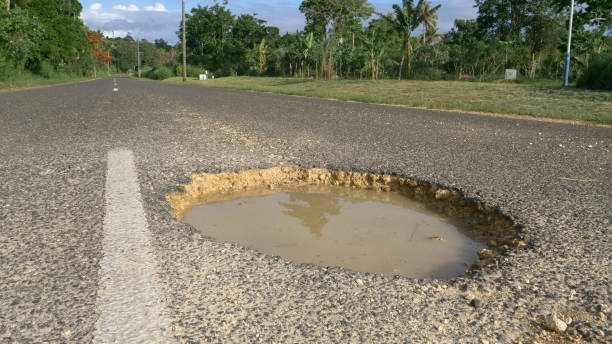
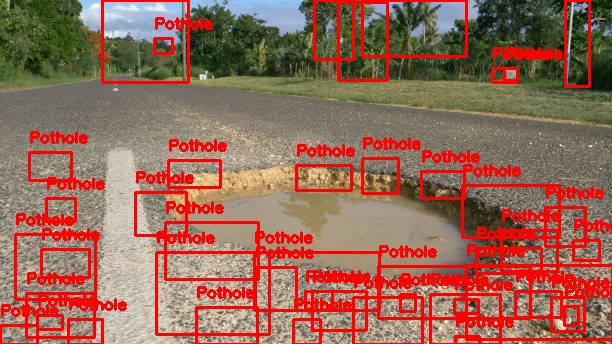
working model

diff --git a/app/flask_app.py b/app/flask_app.py
@@ -2,8 +2,7 @@
 from werkzeug.utils import secure_filename
 import os
 import cv2
-import torch
-from ultralytics import YOLO
+import numpy as np
 from pathlib import Path
 
 app = Flask(__name__)
@@ -12,31 +11,43 @@ app = Flask(__name__)
 BASE_DIR = Path(__file__).parent
 app.config.update({
     'UPLOAD_FOLDER': BASE_DIR / 'static' / 'uploads',
-    'RESULT_FOLDER': BASE_DIR / 'static' / 'results',
-    'MODEL_URL': "https://github.com/ultralytics/assets/releases/download/v8.1.0/yolov8s-pothole.pt",
-    'MODEL_PATH': BASE_DIR / 'models' / 'pothole_detector.pt'
+    'RESULT_FOLDER': BASE_DIR / 'static' / 'results'
 })
 
 # Create directories
 os.makedirs(app.config['UPLOAD_FOLDER'], exist_ok=True)
 os.makedirs(app.config['RESULT_FOLDER'], exist_ok=True)
 
-# ====== MODEL SETUP ======
-# Download model if missing
-if not os.path.exists(app.config['MODEL_PATH']):
-    print("Downloading pothole detection model...")
-    os.makedirs(BASE_DIR / 'models', exist_ok=True)
-    torch.hub.download_url_to_file(
-        app.config['MODEL_URL'],
-        str(app.config['MODEL_PATH'])
-    )
-    print("Download complete!")
+def detect_potholes(image_path):
+    """Basic pothole detection using image processing"""
+    img = cv2.imread(image_path)
+    gray = cv2.cvtColor(img, cv2.COLOR_BGR2GRAY)
+    
+    # Edge detection
+    edges = cv2.Canny(gray, 100, 200)
+    
+    # Find contours
+    contours, _ = cv2.findContours(edges, cv2.RETR_TREE, cv2.CHAIN_APPROX_SIMPLE)
+    
+    # Filter contours that could be potholes
+    potholes = []
+    for cnt in contours:
+        area = cv2.contourArea(cnt)
+        if 100 < area < 50000:  # Size range for potholes
+            x,y,w,h = cv2.boundingRect(cnt)
+            aspect_ratio = float(w)/h
+            if 0.2 < aspect_ratio < 5:  # Reasonable aspect ratios
+                potholes.append(cnt)
+    
+    # Draw bounding boxes
+    for cnt in potholes:
+        x,y,w,h = cv2.boundingRect(cnt)
+        cv2.rectangle(img, (x,y), (x+w,y+h), (0,0,255), 2)
+        cv2.putText(img, 'Pothole', (x,y-10), 
+                   cv2.FONT_HERSHEY_SIMPLEX, 0.5, (0,0,255), 2)
+    
+    return img, len(potholes)
 
-# Load model
-model = YOLO(str(app.config['MODEL_PATH']))
-print("Model classes:", model.names)  # Should show {'0': 'pothole'}
-
-# ====== ROUTES ======
 @app.route("/", methods=["GET", "POST"])
 def home():
     if request.method == "POST":
@@ -52,29 +63,14 @@ def home():
             upload_path = app.config['UPLOAD_FOLDER'] / filename
             file.save(str(upload_path))
             
-            # Process image with pothole detection
-            img = cv2.imread(str(upload_path))
-            results = model.predict(
-                img,
-                conf=0.5,  # Confidence threshold
-                imgsz=640,  # Input size
-                classes=[0],  # Only detect potholes
-                augment=True  # Test-time augmentation
-            )
-            
-            # Create annotated image
-            annotated_img = results[0].plot(
-                line_width=3,  # Thicker bounding boxes
-                font_size=0.8,  # Larger labels
-                labels=True,  # Show class labels
-                pil=True  # Better rendering
-            )
+            # Process image
+            result_img, pothole_count = detect_potholes(str(upload_path))
             
             # Save result
             result_path = app.config['RESULT_FOLDER'] / filename
-            cv2.imwrite(str(result_path), annotated_img)
+            cv2.imwrite(str(result_path), result_img)
             
-            print(f"Detected {len(results[0].boxes)} potholes")
+            print(f"Detected {pothole_count} potential potholes")
             return render_template("result.html",
                                 original_img=filename,
                                 result_img=filename)
